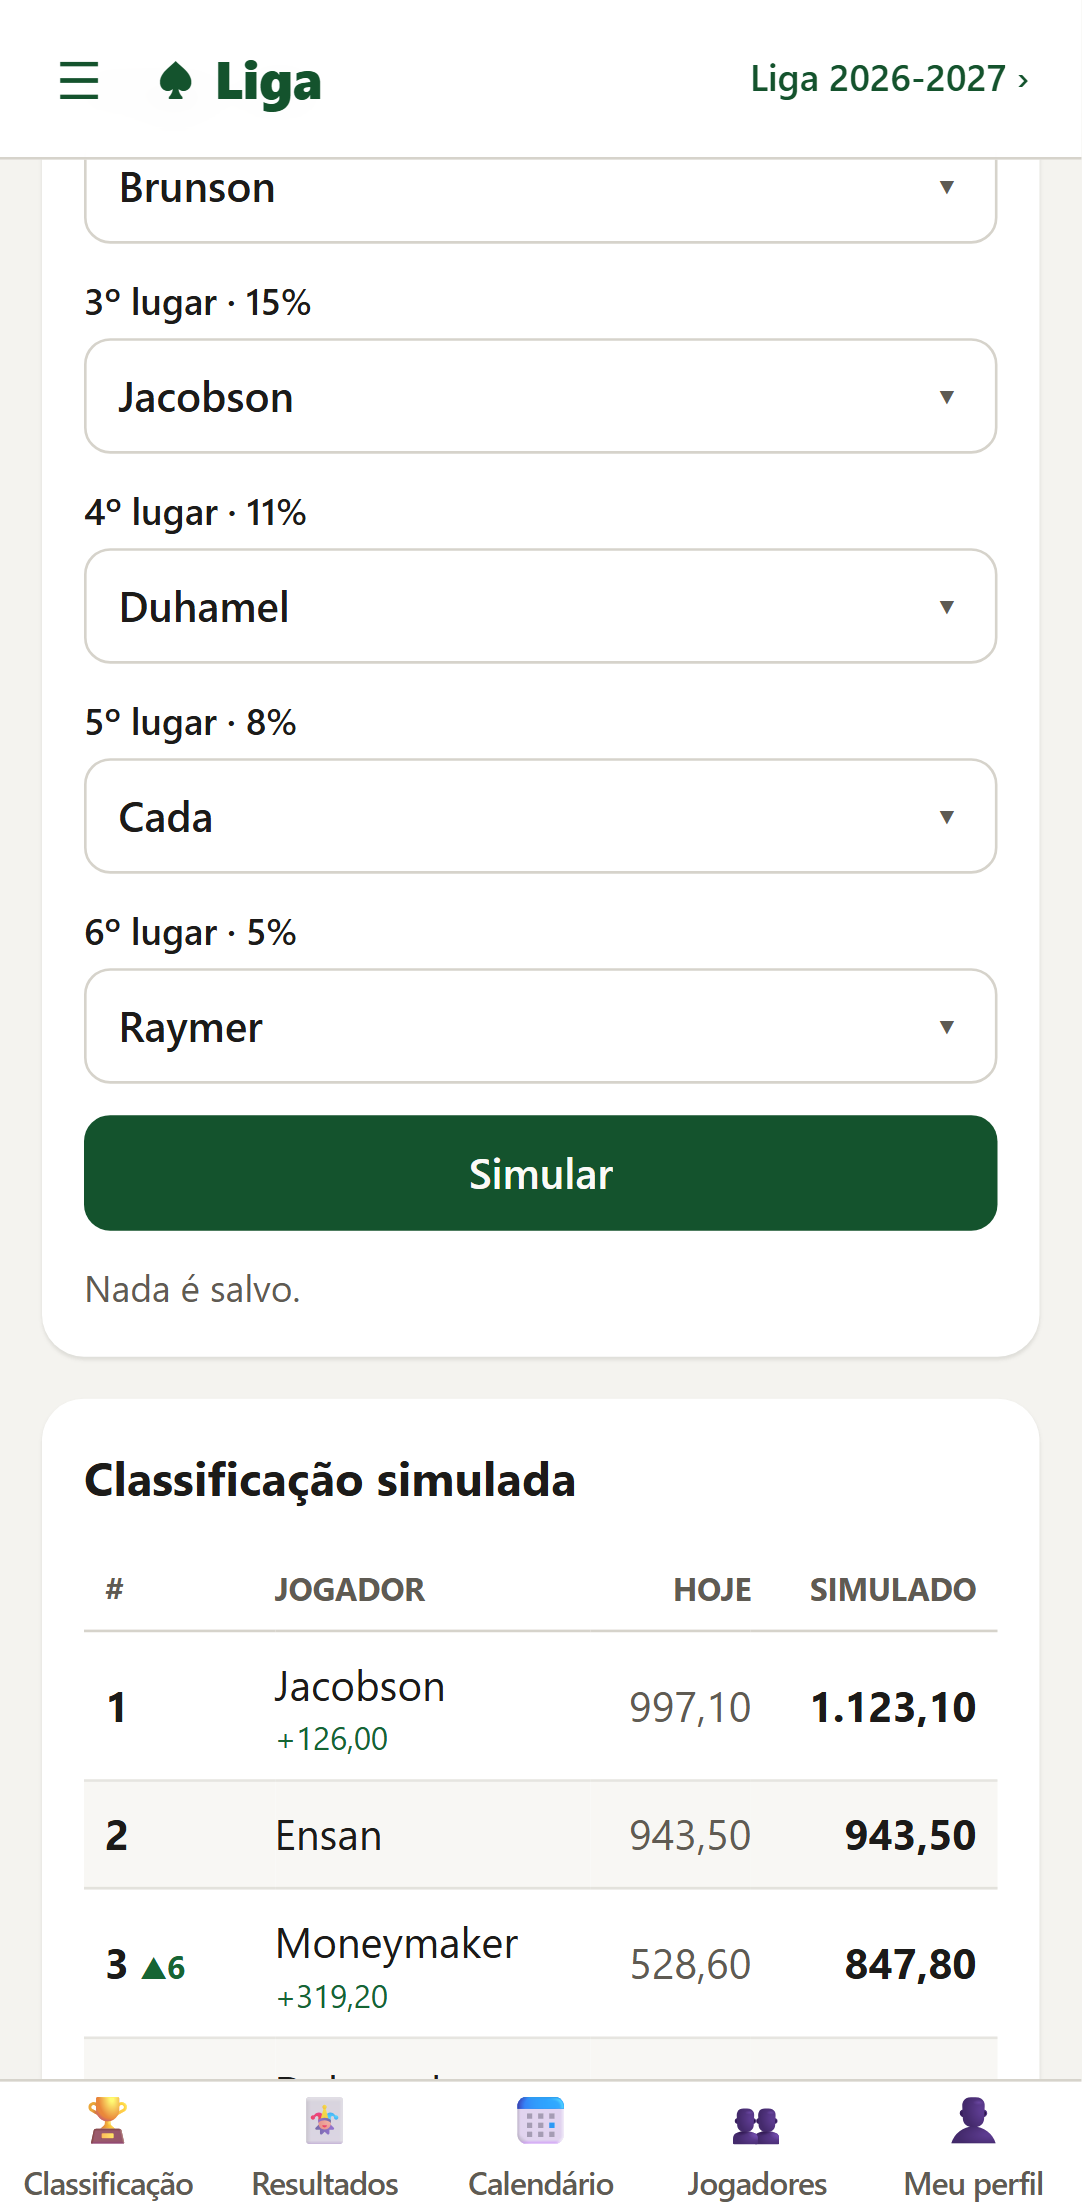
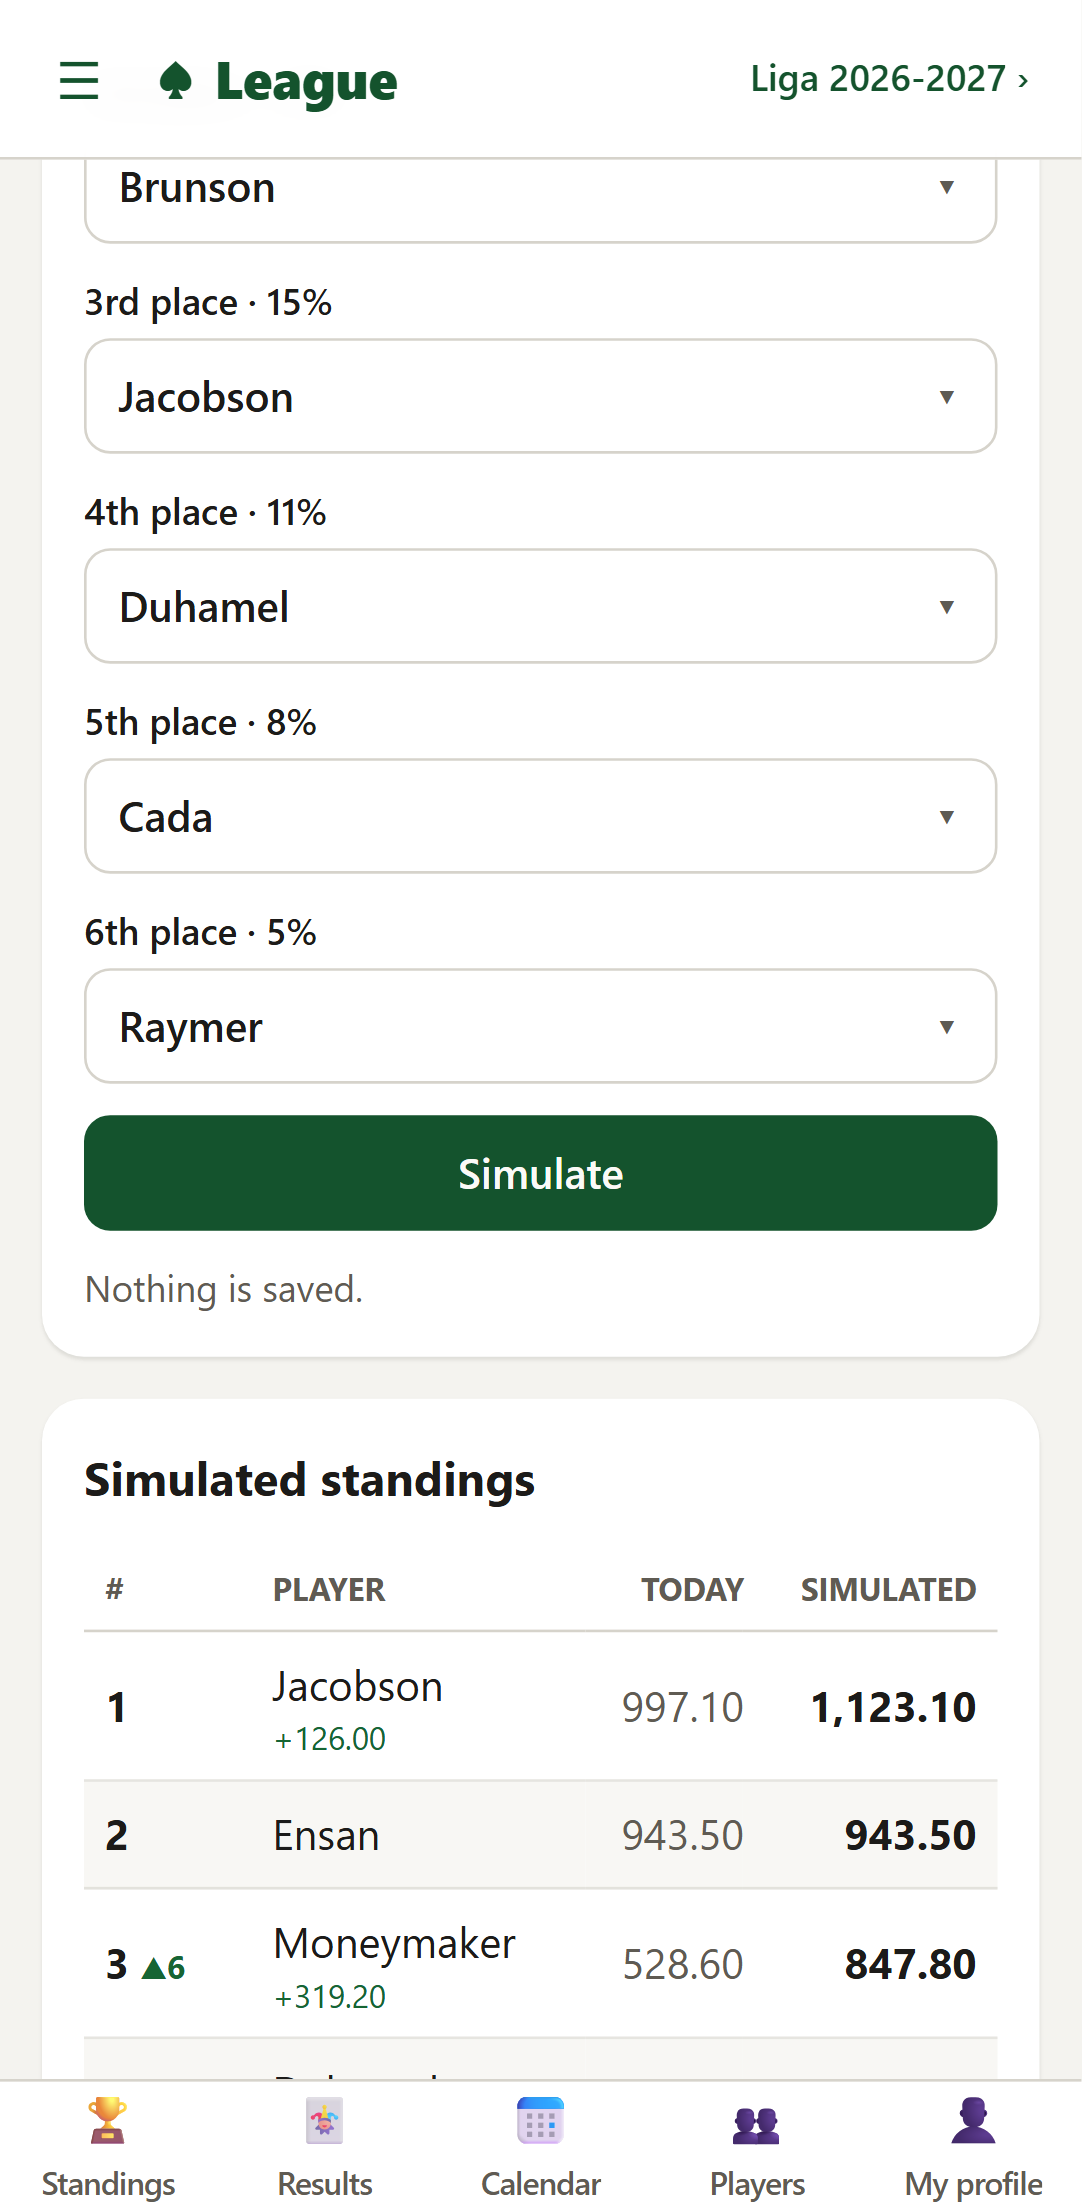
Take the screenshots from the demo site in English
README.md is in English, and its screenshots were in Brazilian Portuguese. The script
now makes a copy of the demo site with an English name and the locale en-US, builds
that, and takes the screenshots from it. The demo site itself is unchanged.

Claude-Session: https://claude.ai/code/session_01CB9ejZwyUw2yQfiiACGBaJ

diff --git a/README.md b/README.md
@@ -15,7 +15,8 @@ submodule, and that holds the league's name, settings, data and deploy target. S
 
 ## Screenshots
 
-The demo site, with the invented demo league. Regenerate them with `npm run screenshots` in `frontend/` when a
+The demo site in English, with the invented demo league. The demo site itself is in Brazilian Portuguese, and
+so are the names in its data. Regenerate them with `npm run screenshots` in `frontend/` when a
 screen changes (it needs bash and PHP on the path). Native date and time fields follow each device's settings;
 the screenshot browser shows them in US format.
 
